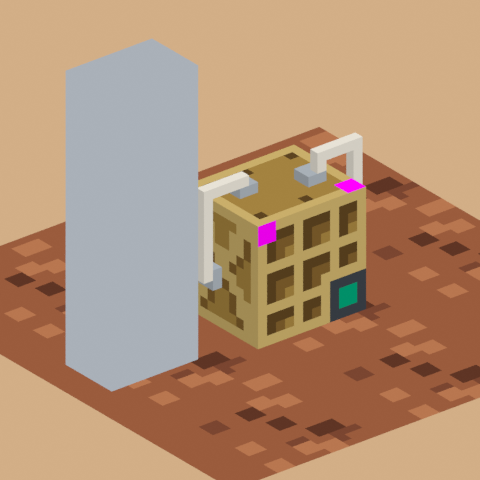
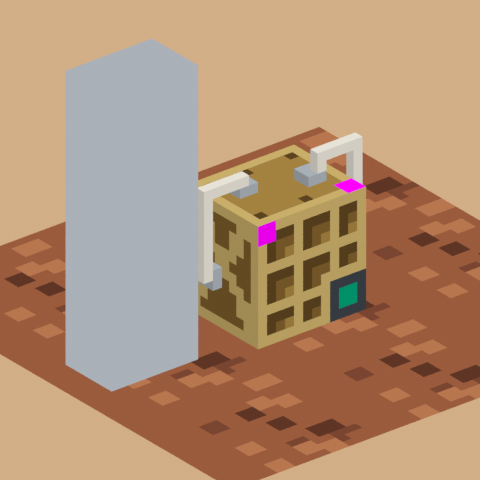
WIP: in-progress batch 2 art and dust research from running agents
Claude-Session: https://claude.ai/code/session_01M6GN65JsFktcAPCpzAcP1a

Changed region(s): [[0.4375, 0.5312, 0.5312, 0.6875], [0.4375, 0.4375, 0.5, 0.5312]]

diff --git a/tools/art-preview/gen_phase1_batch1.py b/tools/art-preview/gen_phase1_batch1.py
@@ -219,14 +219,13 @@ def pockets(t, x0, y0, lamp):
 fa = T("o2_generator_face"); far = fa.region(2, 4, 13, 15); pockets(fa, 2, 4, True); fa.save()
 fb = T("o2_generator_back"); fbr = fb.region(2, 4, 13, 15); pockets(fb, 2, 4, False); fb.save()
 en = T("o2_generator_end"); enr = en.region(3, 4, 12, 15)
-en.rect(3, 4, 12, 15, "I"); en.box(3, 4, 12, 15, "J")
+en.rect(3, 4, 12, 15, "H"); en.box(3, 4, 12, 15, "J")
 # X ribs (round 2: one-pixel diagonals with shadows read as noise in the iso render; now 2 px wide, light on mid gold)
 for k in range(0, 12):
     yy = 4 + k; xa = 3 + round(k * 9 / 11); xb = 12 - round(k * 9 / 11)
     for xx in (xa, xa + 1, xb, xb - 1):
         if 3 <= xx <= 12: en.dot(xx, yy, "J")
-    for xx in (xa - 1, xb + 1):
-        if 4 <= xx <= 11 and en.px[yy][xx] == "I": en.dot(xx, yy, "H")
+    # round 3: light ribs on a darker field (light-on-light read as an hourglass)
 en.save()
 sd_ = T("o2_generator_side"); sdr = sd_.region(3, 4, 12, 15)
 sd_.rect(3, 4, 12, 15, "H"); sd_.box(3, 4, 12, 15, "J"); sd_.rect(4, 8, 11, 8, "J"); sd_.rect(4, 12, 11, 12, "J"); sd_.rect(4, 9, 11, 9, "G"); sd_.rect(4, 13, 11, 13, "G"); sd_.save()
